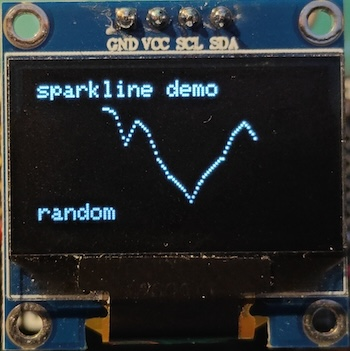
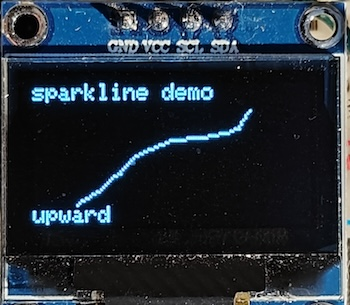
Add function sparkline_draw_line() which draws a steep line continuously (instead of leaving them sparse)

diff --git a/sparkline.c b/sparkline.c
@@ -4,6 +4,8 @@
  * MIT License
  */
 
+#include <math.h>
+#include <stdlib.h>
 #include "sparkline.h"
 #include "pico-ssd1306/ssd1306.h"
 
@@ -40,6 +42,44 @@ uint8_t sparkline_add_datapoint(sparkline_t *sparkline, int16_t datapoint) {
   return sparkline->current_datapoint;
 }
 
+inline static void swap(uint8_t *a, uint8_t *b) {
+  *a ^= *b;
+  *b ^= *a;
+  *a ^= *b;
+}
+
+void sparkline_draw_line(ssd1306_t *display, uint8_t x1, uint8_t y1, uint8_t x2, uint8_t y2) {
+  // Always draw from x1 to x2
+  if (x1 > x2) {
+    swap(&x1, &x2);
+    swap(&y1, &y2);
+  }
+  int16_t delta_x = x2 - x1;
+  int16_t delta_y = y2 - y1;
+  uint8_t i;
+  bool is_steep = delta_x < abs(delta_y);
+  float slope = is_steep ? (float) delta_x / (float) delta_y : (float) delta_y / (float) delta_x;
+  float k;
+
+  // If line is steep, trace pixels along Y axis, otherwise X axis
+  if (is_steep) {
+    // Always draw from y1 to y2
+    if (y1 > y2) {
+      swap(&x1, &x2);
+      swap(&y1, &y2);
+    }
+    for (i = y1; i < y2; i++) {
+      k = slope * (i - y1) + x1;
+      ssd1306_draw_pixel(display, k, i);
+    }
+  } else {
+    for (i = x1; i <= x2; i++) {
+      k = slope * (i - x1) + y1;
+      ssd1306_draw_pixel(display, i, k);
+    }
+  }
+}
+
 /**
  * Draw configured and populated sparkline on display
  */
@@ -62,7 +102,7 @@ void sparkline_draw(ssd1306_t *display, sparkline_t *sparkline) {
       x -= sparkline->stepsize;
       // Prevent drawing past left edge
       x = x < 0 ? 0 : x;
-      ssd1306_draw_line(
+      sparkline_draw_line(
         display,
         x + sparkline->x,
         y + sparkline->y,

diff --git a/main.c b/main.c
@@ -54,10 +54,10 @@ void draw_sparkline(char* label, int16_t values[], size_t len) {
 }
 
 int main() {
-  int16_t dummy_downward[]   = { -49, -39, -32, -28, -20, -10, -4, 2, 3, 1, 5, 6, 8, 10, 12, 12, 13, 11, 14, 18, 19, 21, 22 };
-  int16_t dummy_upward[] = { 22114, 19021, 18002, 17501, 17210, 16991, 16872, 16910, 15990, 15021, 14091, 12949, 10201, 8812, 7014, 5529, 4015 };
-  int16_t dummy_random[]   = { 12, 22, 15, 1, -5, -13, -25, -15, -10, 0, 18, 23, 10, 28, 30 };
-  int16_t dummy_constant[] = { 4, 4, 4, 4, 4 };
+  int16_t dummy_downward[] = { -49, -39, -32, -28, -20, -10, -4, 2, 3, 1, 5, 6, 8, 10, 12, 12, 13, 11, 14, 18, 19, 21, 22 };
+  int16_t dummy_upward[]   = { 22114, 19021, 18002, 17501, 17210, 16991, 16872, 16910, 15990, 15021, 14091, 12949, 10201, 8812, 7014, 5529, 4015 };
+  int16_t dummy_random[]   = { 42, 46, 49, 10, 1, -5, -13, -25, -15, -10, 0, 18, 23, 10, 28, 30, -1, -18, -10, -8 };
+  int16_t dummy_constant[] = { 4, 4, 4, 4, 4, 4, 4, 4, 4, 4, 4, 4, 4, 4, 4 };
 
   stdio_init_all();
   init_display(I2C_SDA, I2C_SCL);
